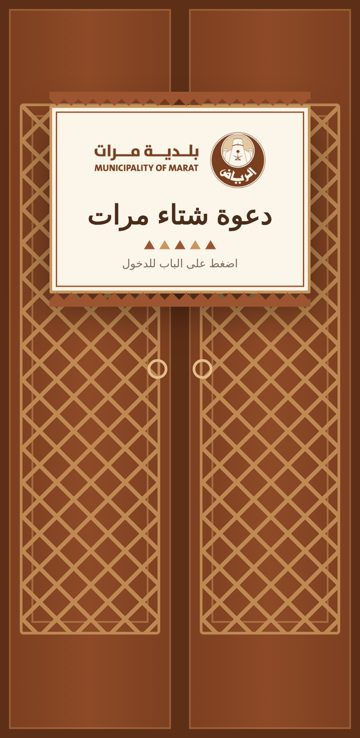
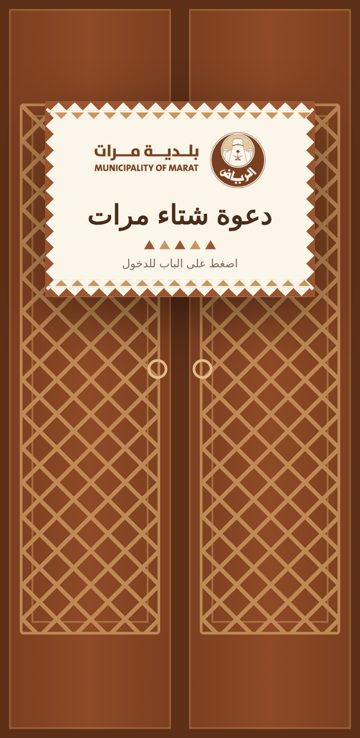
لوحة الدعوة محددة بالمثلثات النجدية
Claude-Session: https://claude.ai/code/session_01BNDTi5gFWkYV2YWwbX3ADq

Changed region(s): [[0.1222, 0.1247, 0.8861, 0.4363]]

diff --git a/shita/index.html b/shita/index.html
@@ -30,9 +30,9 @@ a.card:active{transform:scale(.98)}
 <h1>تصاميم دعوة شتاء مرات</h1>
 <p class="sub">اضغط على أي تصميم لتجربته كما سيظهر للمدعوين</p>
 <div class="list">
-  <a class="card" href="1.html?v=8"><img src="thumb1.jpg" alt=""><div><span class="num">١</span><h2>الظرف</h2><p>سماء شتوية بنجوم وثلج، يضغط الضيف على الختم فينفتح الظرف وتظهر الدعوة</p><span class="go">جرّب التصميم</span></div></a>
-  <a class="card" href="2.html?v=8"><img src="thumb2.jpg" alt=""><div><span class="num">٢</span><h2>الباب النجدي</h2><p>باب خشبي نجدي ينفتح على الدعوة، بألوان الطين والرمل والشرفات النجدية</p><span class="go">جرّب التصميم</span></div></a>
-  <a class="card" href="3.html?v=8"><img src="thumb3.jpg" alt=""><div><span class="num">٣</span><h2>التذكرة</h2><p>شعار شتاء مرات في دائرة مضيئة، ثم دعوة على شكل تذكرة حفل</p><span class="go">جرّب التصميم</span></div></a>
+  <a class="card" href="1.html?v=9"><img src="thumb1.jpg" alt=""><div><span class="num">١</span><h2>الظرف</h2><p>سماء شتوية بنجوم وثلج، يضغط الضيف على الختم فينفتح الظرف وتظهر الدعوة</p><span class="go">جرّب التصميم</span></div></a>
+  <a class="card" href="2.html?v=9"><img src="thumb2.jpg" alt=""><div><span class="num">٢</span><h2>الباب النجدي</h2><p>باب خشبي نجدي ينفتح على الدعوة، بألوان الطين والرمل والشرفات النجدية</p><span class="go">جرّب التصميم</span></div></a>
+  <a class="card" href="3.html?v=9"><img src="thumb3.jpg" alt=""><div><span class="num">٣</span><h2>التذكرة</h2><p>شعار شتاء مرات في دائرة مضيئة، ثم دعوة على شكل تذكرة حفل</p><span class="go">جرّب التصميم</span></div></a>
 </div>
 <p class="note">بلدية محافظة مرات</p>
 </body>

diff --git a/shita/2.html b/shita/2.html
@@ -102,12 +102,17 @@ body.revealed .d4{transition-delay:1.5s}body.revealed .d5{transition-delay:1.7s}
 .cd{direction:ltr !important}
 
 /* لوحة الباب بطابع نجدي */
-.intro-label{top:27%;padding:30px 30px 26px;min-width:290px;border-radius:2px;border:none;background:var(--paper);
-  box-shadow:0 18px 45px rgba(0,0,0,.45), inset 0 0 0 3px var(--gold), inset 0 0 0 7px var(--paper), inset 0 0 0 8.5px var(--clay)}
-.intro-label:before,.intro-label:after{content:"";position:absolute;left:0;right:0;height:16px;
-  background:conic-gradient(from 135deg at 50% 0,var(--clay) 90deg,transparent 0) 0 0/16px 16px repeat-x}
-.intro-label:before{top:-15px;transform:scaleY(-1)}
-.intro-label:after{bottom:-15px}
+.intro-label{top:27%;padding:34px 34px 30px;min-width:300px;border-radius:0;border:none;box-shadow:none;
+  filter:drop-shadow(0 18px 30px rgba(0,0,0,.45));
+  background:
+   conic-gradient(from -45deg at 50% 100%,var(--clay) 90deg,transparent 0) top/18px 10px repeat-x,
+   conic-gradient(from 135deg at 50% 0,var(--clay) 90deg,transparent 0) bottom/18px 10px repeat-x,
+   conic-gradient(from 45deg at 0 50%,var(--clay) 90deg,transparent 0) right/10px 18px repeat-y,
+   conic-gradient(from 225deg at 100% 50%,var(--clay) 90deg,transparent 0) left/10px 18px repeat-y,
+   conic-gradient(from -45deg at 50% 100%,var(--gold) 90deg,transparent 0) 9px 12px/18px 7px repeat-x,
+   conic-gradient(from 135deg at 50% 0,var(--gold) 90deg,transparent 0) 9px calc(100% - 12px)/18px 7px repeat-x,
+   var(--paper)}
+.intro-label:before,.intro-label:after{display:none}
 .intro-label img{display:block;width:190px;margin:0 auto 12px}
 .intro-label b{font-size:30px}
 .intro-label .tri{display:flex;justify-content:center;gap:5px;margin:10px 0 2px}
